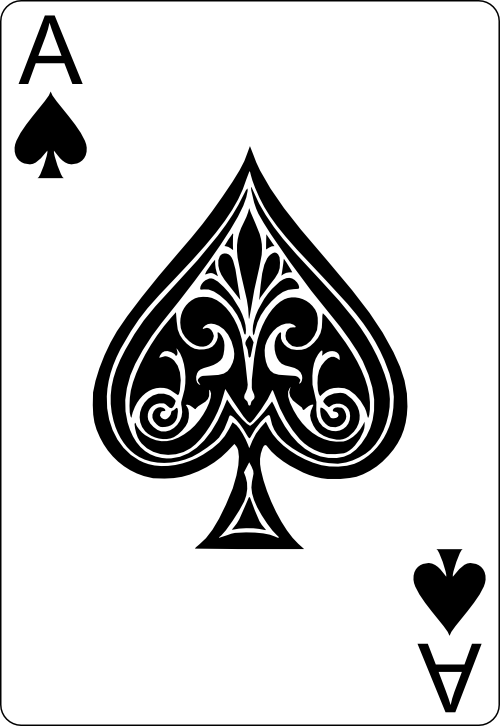
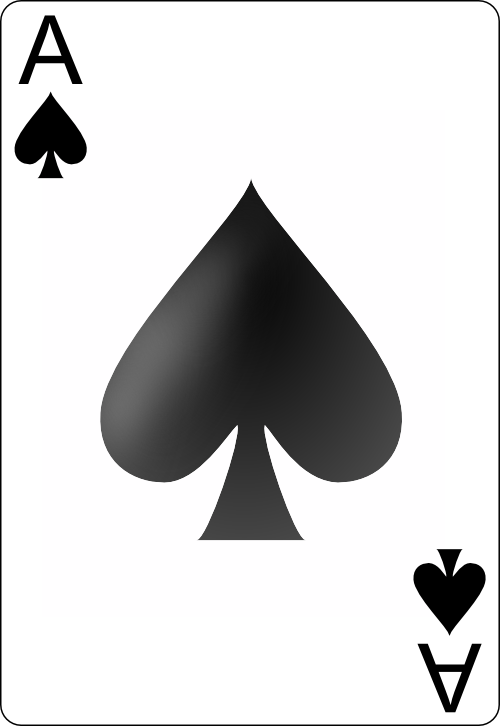
Reduce cards from 67 to 52 cards.

Changed region(s): [[0.18, 0.2121, 0.84, 0.7576]]

diff --git a/src/main/java/lab03/lab5cards/HelloApplication.java b/src/main/java/lab03/lab5cards/HelloApplication.java
@@ -58,7 +58,7 @@ public class HelloApplication extends Application {
                     imageView.setLayoutY(row);
 
                     base.getChildren().add(imageView);
-                    if(count == 13){
+                    if(count == 12){
                         row += 20;
                         col = 100;
                         count = 0;
